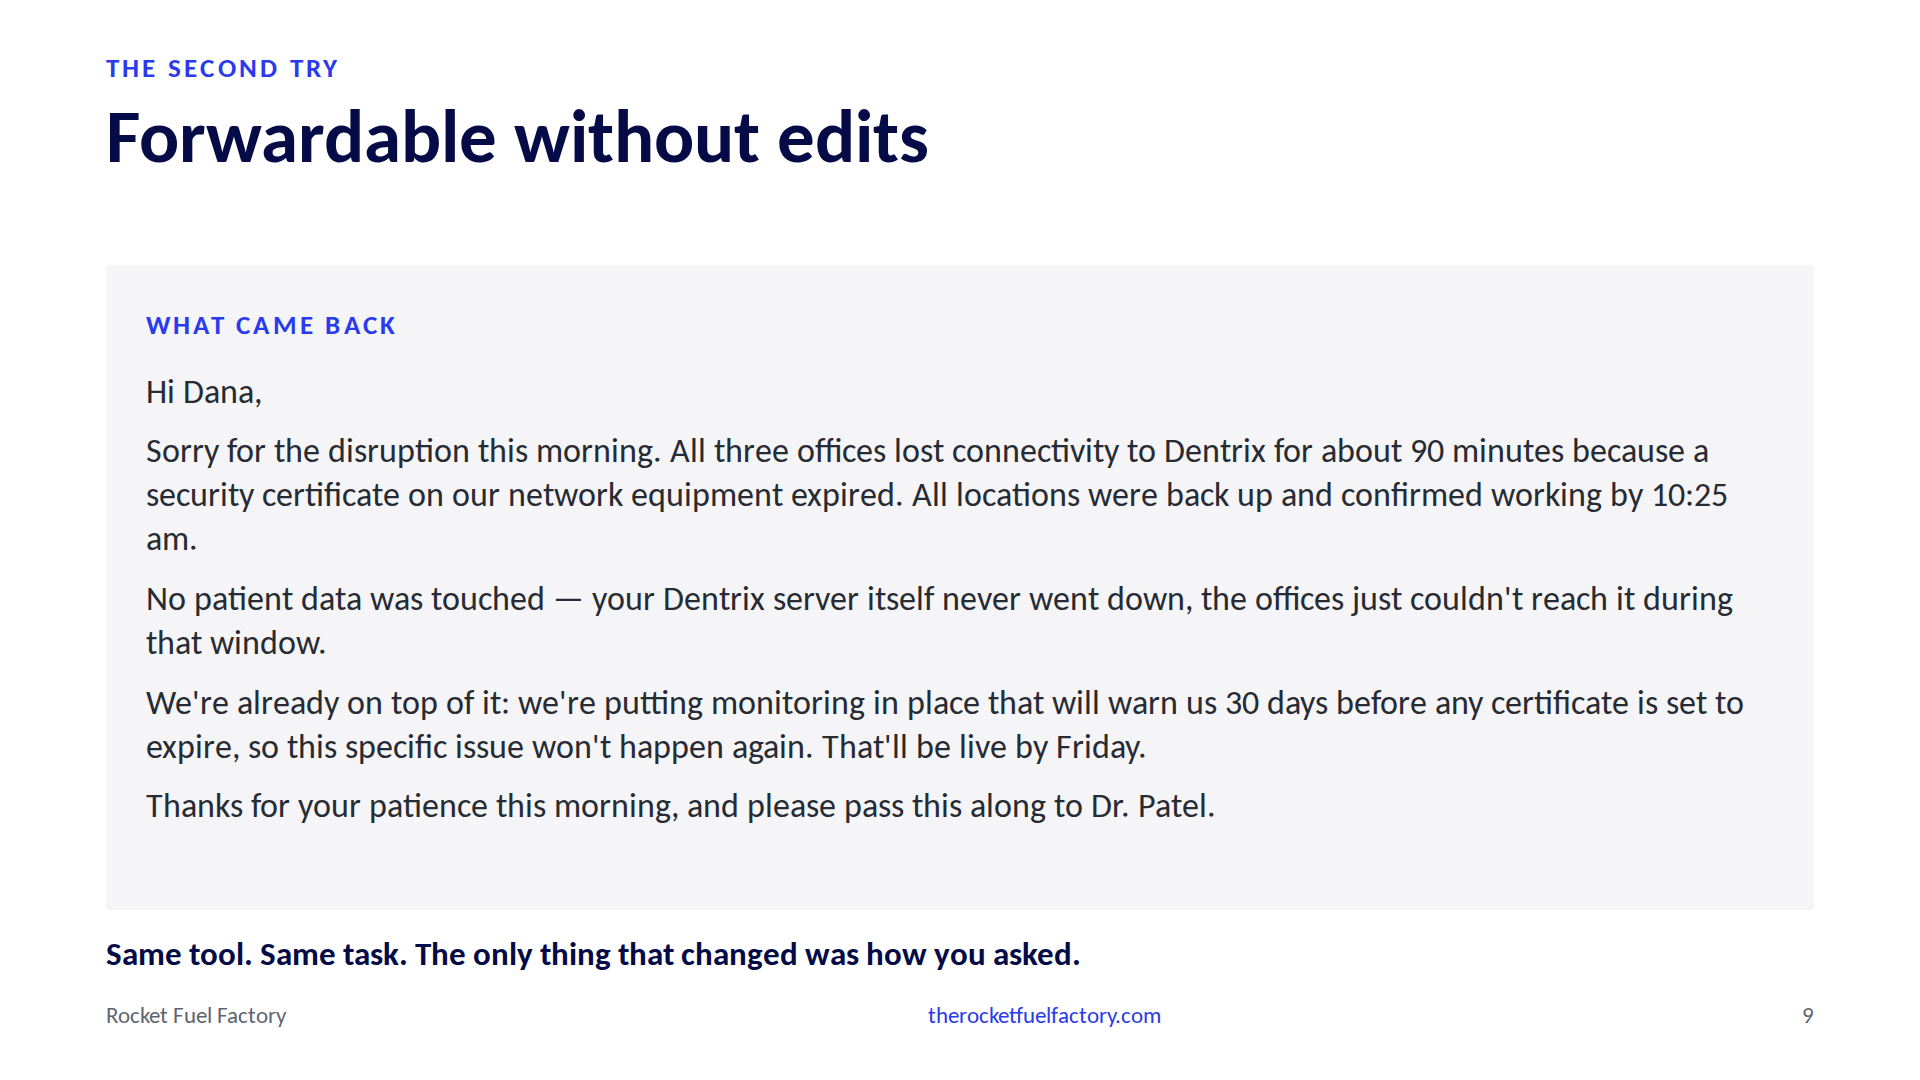
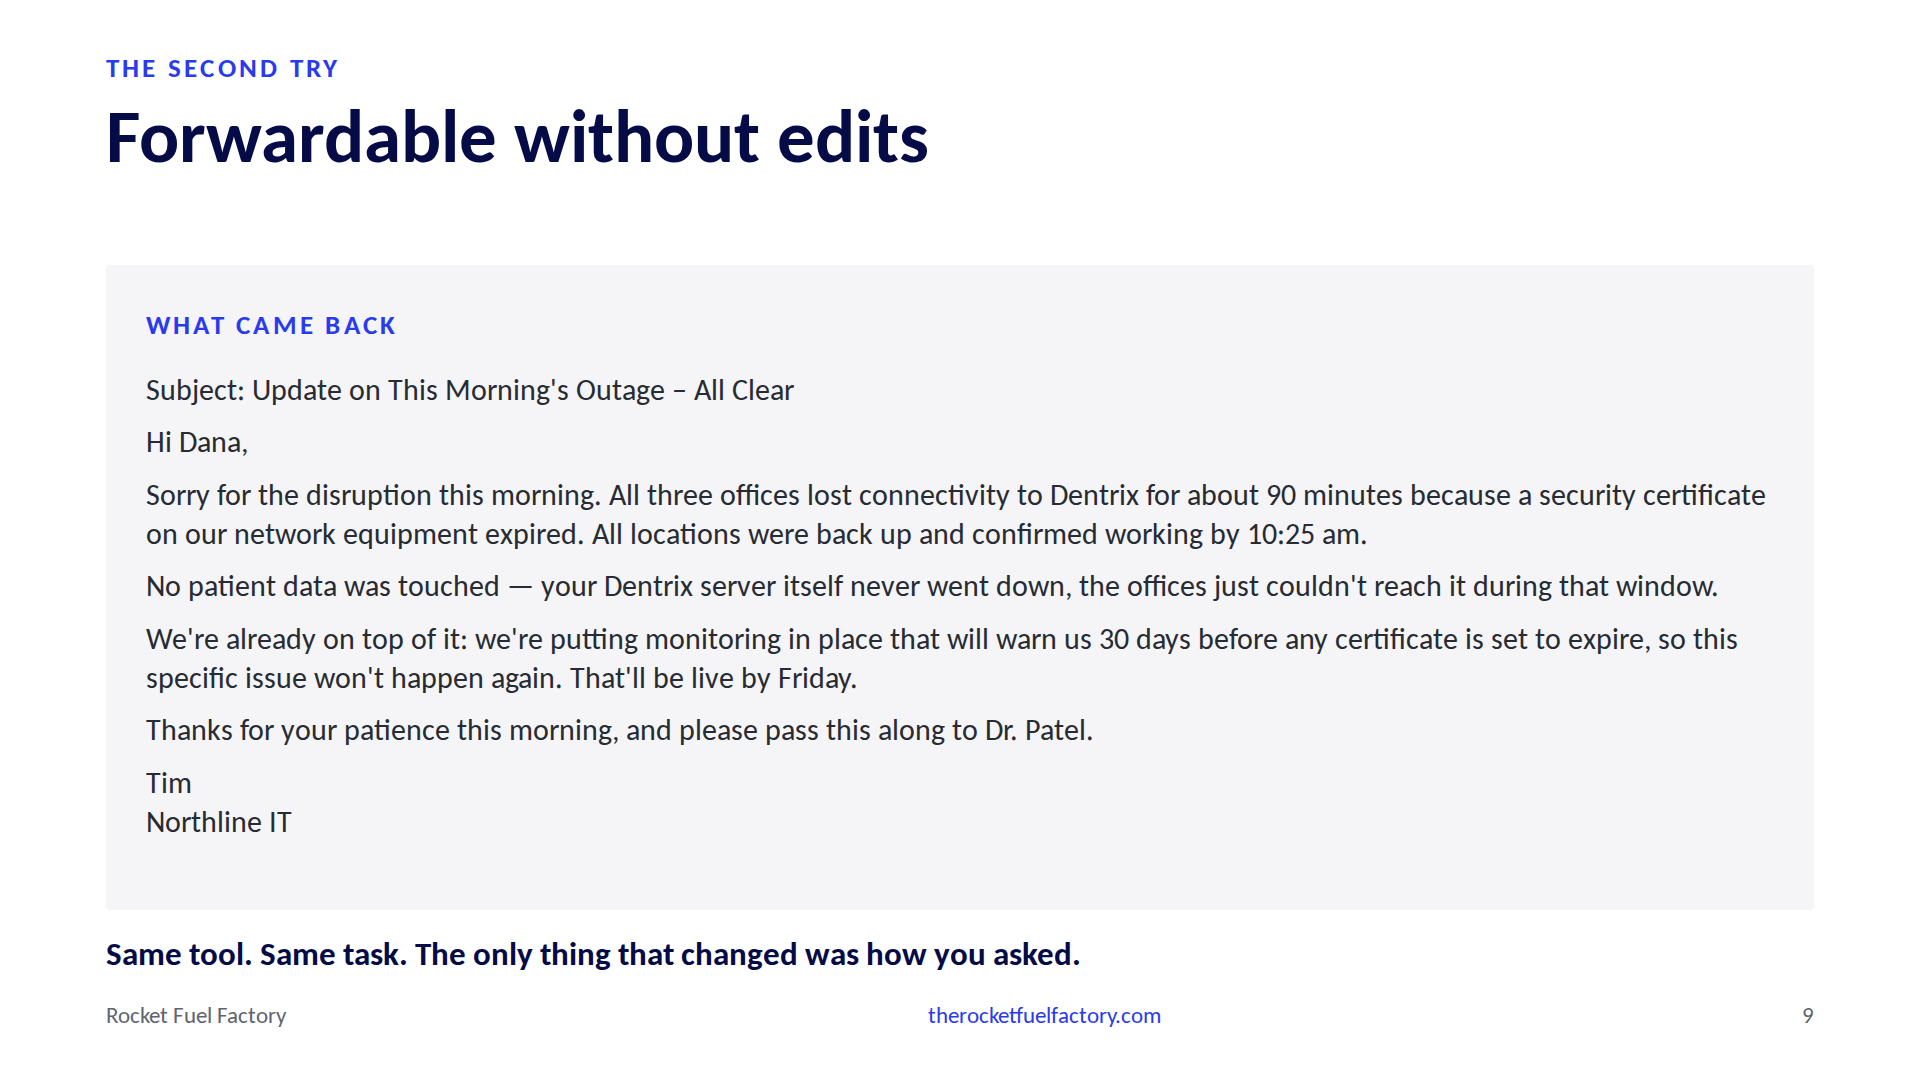
Show both emails whole; weak one in two columns so its length is the point

Changed region(s): [[0.0625, 0.3361, 0.9062, 0.7944]]

diff --git a/src/data/notes.js b/src/data/notes.js
@@ -9,7 +9,7 @@ export const notes = {
   'abdicate-not-delegate': 'Target 1:30. Line to land: delegating is handing over the work and keeping the definition of done. Abdicating is handing over both. Then the confession: we have done this to our techs for years. The wrong result came back a week later, so we blamed the tech.',
   'the-demo-never-had-a-client': 'Target 3:00. Twenty seconds. No vendor names. Every AI keynote is one sentence and magic, and it works because the presenter has no stake in which game he gets. Then you go home and ask for a client email, where every detail is the job. The demo taught you to abdicate. The demo never had a client.',
   'demo-weak': 'Target 3:40. The mirror. This is what everyone in the room actually does: one line, paste the ticket. Read the line. Point at the ticket: it has everything a tech needs. Full waiting room, FGT-60F, Phase 1, DigiCert, and the aside that we flagged this cert in Q2 and nobody approved the renewal. Every fact. Click.',
-  'demo-weak-output': 'Target 4:30. Read it as Dana. Ticket number in the subject line. VPN tunnel and SSL certificate explained to an office manager. We are on top of it, verbatim, because you typed it. And the Q2 flag: the machine decided, on its own, to leave it out and say the cert was not being monitored. That is a decision about what your client hears, and you did not make it. Line to land: you pasted the ticket, it decided what the client hears. Then: it did exactly what you wrote. So did your tech. This one was fast enough for you to notice.',
+  'demo-weak-output': 'Target 4:30. Whole thing, two columns, so they can see how long it is. Read it as Dana. Ticket number in the subject line. VPN tunnel and SSL certificate explained to an office manager. We are on top of it, verbatim, because you typed it. Bottom right: Your Name, Company Name Service Desk, it did not know who was speaking. And Going forward: the machine decided, on its own, to leave out the Q2 flag and say the cert was not being monitored. That is a decision about what your client hears, and you did not make it. Line to land: you pasted the ticket, it decided what the client hears. Then: it did exactly what you wrote. So did your tech. This one was fast enough for you to notice.',
   'demo-brief': 'Target 7:15. Now you know what to say. Same ticket pasted underneath; these are the words that went above it, the way you would say them to your best tech in the hallway. Point at what the machine asked for and you supplied: who Dana is and that she forwards it to Dr. Patel, do not quote the ticket, the Q2 conversation is for me and the owner, no patient data because that is what she asked on the phone, and on top of it means monitoring by Friday. This is delegating.',
   'demo-strong': 'Target 8:30. Loud punchline: same tool, same task, the only thing that changed was how you asked. Under 150 words, Dr. Patel named, forwardable. Then the bridge to Aharon: same habit, bigger scale.',
   'demo-ask': 'Target 5:30. Bridge, said before the click: this is where most people get frustrated and stop. Do not stop, and do not just ask it to try again. Ask it how you should have asked. Show the answer. Read its first sentence: you gave me the facts and the outcome, but not the judgment calls. Then the four things it wants up front. Then read the punchline off the slide, slowly, and do not editorialize: the stance is the one thing that only lives in your head. It just described abdication better than I did. Try this tonight on the last answer that disappointed you.',

diff --git a/src/components/slides/006-DemoWeakOutput.jsx b/src/components/slides/006-DemoWeakOutput.jsx
@@ -13,8 +13,8 @@ export default function DemoWeakOutput({ slideNumber }) {
       slideNumber={slideNumber}
       only="output"
       output={weakOutput}
-      outputLines={[0, 9]}
-      outputFontSize={34}
+      outputFontSize={24}
+      outputColumns={2}
       punchline="You pasted the ticket. It decided what the client hears."
     />
   )

diff --git a/src/components/slides/009-DemoStrong.jsx b/src/components/slides/009-DemoStrong.jsx
@@ -10,8 +10,7 @@ export default function DemoStrong({ slideNumber }) {
       slideNumber={slideNumber}
       only="output"
       output={strongOutput}
-      outputLines={[2, 11]}
-      outputFontSize={34}
+      outputFontSize={30}
       punchline="Same tool. Same task. The only thing that changed was how you asked."
     />
   )
